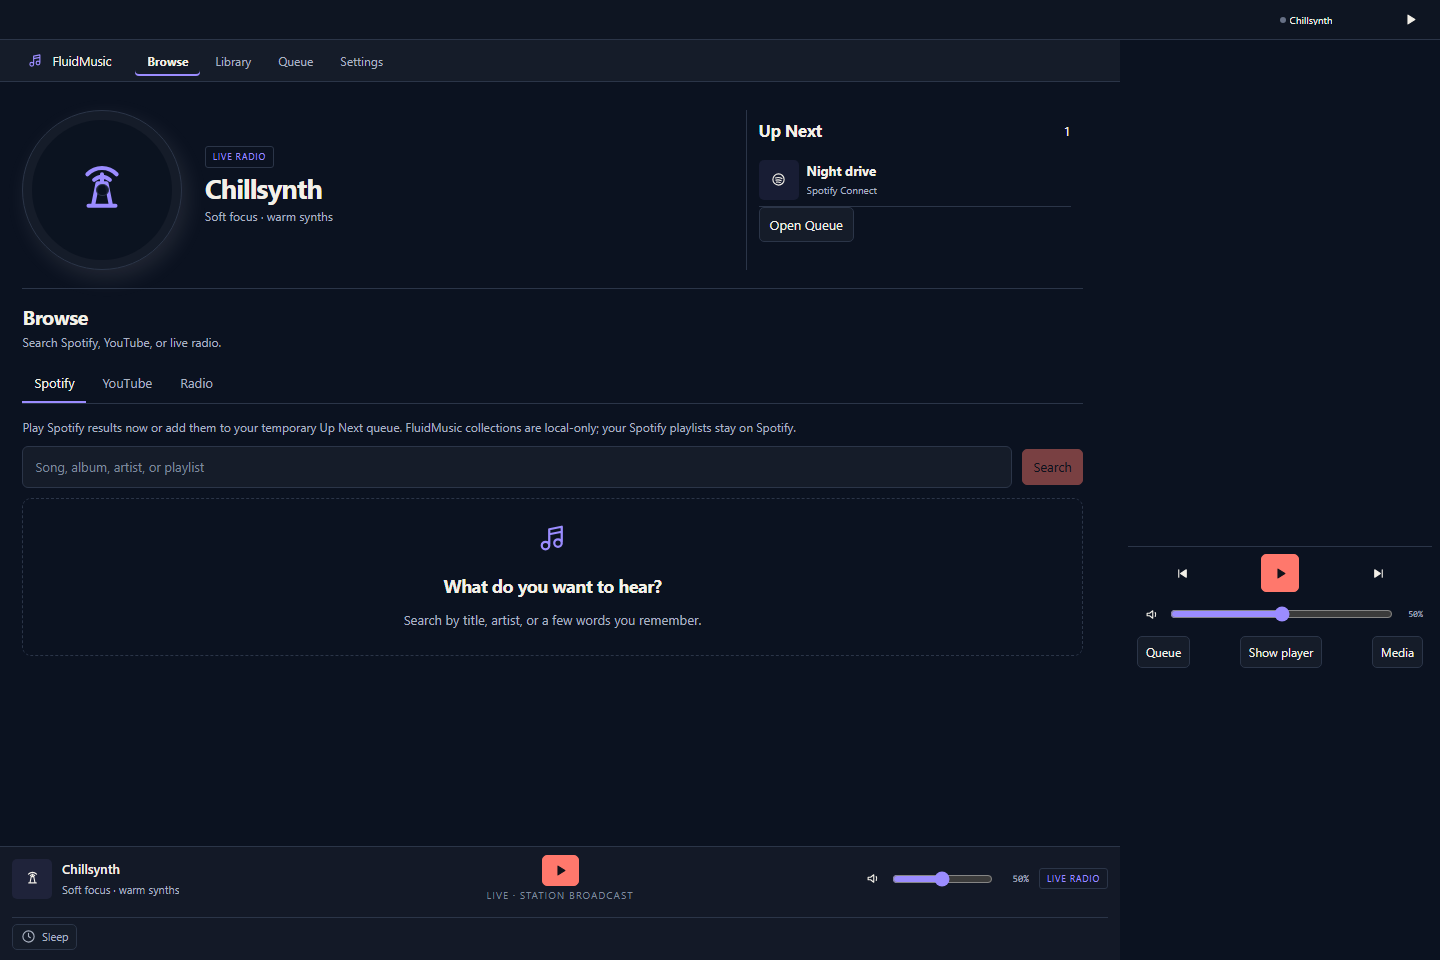
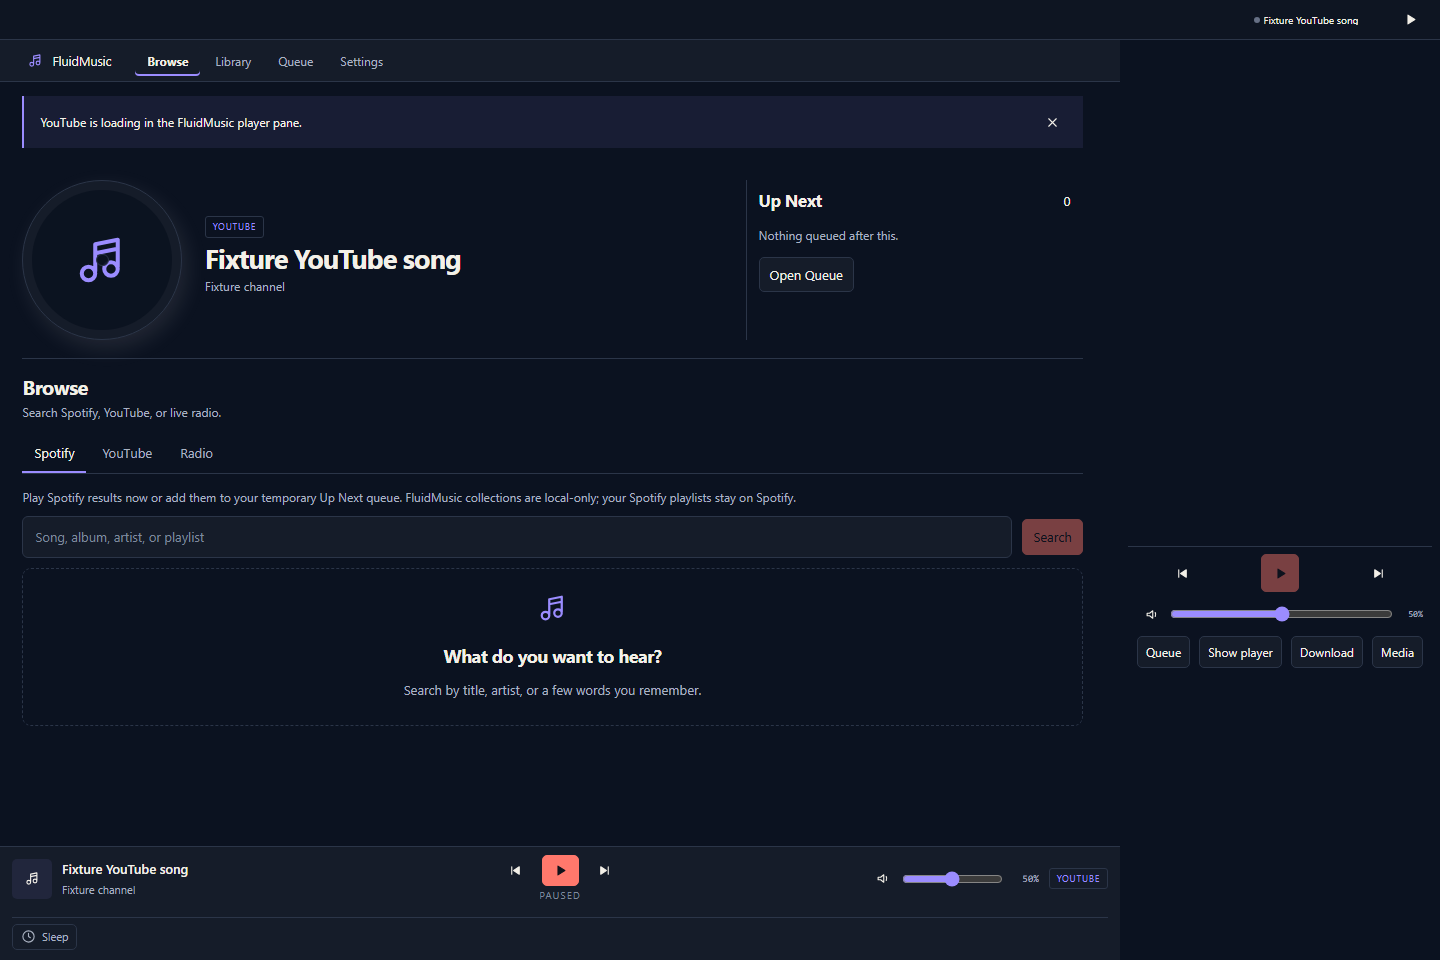
feat: add YouTube download to compact player

diff --git a/desktop/plugin.js b/desktop/plugin.js
@@ -5201,6 +5201,19 @@ function EmbeddedYouTubeFrame({ controller, item, title, frameRef }) {
 
 function MiniControlBar({ controller, playing, onToggle, disabled = false }) {
   const detailsVisible = useValue(controller.miniDetailsVisible)
+  const queue = useValue(controller.queue)
+  const at = useValue(controller.index)
+  const item = queue[at]
+  const [downloading, setDownloading] = useState(false)
+  const download = async () => {
+    if (downloading || item?.source !== 'youtube') return
+    setDownloading(true)
+    try {
+      await controller.downloadYouTubeAudio(item)
+    } finally {
+      setDownloading(false)
+    }
+  }
   // One shared control vocabulary for every provider: the same Transport
   // actions and the same VolumeControl as the main bottom anchor.
   return h('footer', { className: 'fluid-mini-controls', 'aria-label': 'Playback controls' },
@@ -5217,6 +5230,11 @@ function MiniControlBar({ controller, playing, onToggle, disabled = false }) {
         'aria-pressed': detailsVisible,
         'aria-label': detailsVisible ? 'Hide player details' : 'Show player details',
       }, detailsVisible ? 'Hide player' : 'Show player'),
+      item?.source === 'youtube' && h(WorkspaceButton, {
+        disabled: downloading,
+        onClick: () => void download(),
+        'aria-label': downloading ? `Downloading ${item.title}` : `Download ${item.title} locally`,
+      }, downloading ? 'Saving…' : 'Download'),
       h(WorkspaceButton, { onClick: () => host.navigate(ROUTE) }, 'Media'),
     ),
   )

diff --git a/desktop/src/43-visualizer.js b/desktop/src/43-visualizer.js
@@ -41,6 +41,19 @@ function EmbeddedYouTubeFrame({ controller, item, title, frameRef }) {
 
 function MiniControlBar({ controller, playing, onToggle, disabled = false }) {
   const detailsVisible = useValue(controller.miniDetailsVisible)
+  const queue = useValue(controller.queue)
+  const at = useValue(controller.index)
+  const item = queue[at]
+  const [downloading, setDownloading] = useState(false)
+  const download = async () => {
+    if (downloading || item?.source !== 'youtube') return
+    setDownloading(true)
+    try {
+      await controller.downloadYouTubeAudio(item)
+    } finally {
+      setDownloading(false)
+    }
+  }
   // One shared control vocabulary for every provider: the same Transport
   // actions and the same VolumeControl as the main bottom anchor.
   return h('footer', { className: 'fluid-mini-controls', 'aria-label': 'Playback controls' },
@@ -57,6 +70,11 @@ function MiniControlBar({ controller, playing, onToggle, disabled = false }) {
         'aria-pressed': detailsVisible,
         'aria-label': detailsVisible ? 'Hide player details' : 'Show player details',
       }, detailsVisible ? 'Hide player' : 'Show player'),
+      item?.source === 'youtube' && h(WorkspaceButton, {
+        disabled: downloading,
+        onClick: () => void download(),
+        'aria-label': downloading ? `Downloading ${item.title}` : `Download ${item.title} locally`,
+      }, downloading ? 'Saving…' : 'Download'),
       h(WorkspaceButton, { onClick: () => host.navigate(ROUTE) }, 'Media'),
     ),
   )

diff --git a/tests/ui/entry.js b/tests/ui/entry.js
@@ -171,6 +171,13 @@ window.fixture = {
     controller.selectPlaylist(legacy.id)
     controller.setWorkspaceView('browse')
   },
+  selectYouTube: () => controller.add({
+    source: 'youtube',
+    id: 'youtube:abcdefgh001',
+    url: 'https://www.youtube.com/watch?v=abcdefgh001',
+    title: 'Fixture YouTube song',
+    subtitle: 'Fixture channel',
+  }, true, 'search'),
   changeChatFocus: (id) => { window.fixtureFocusedSession = id },
   playTone: async () => {
     const seconds = 45,
